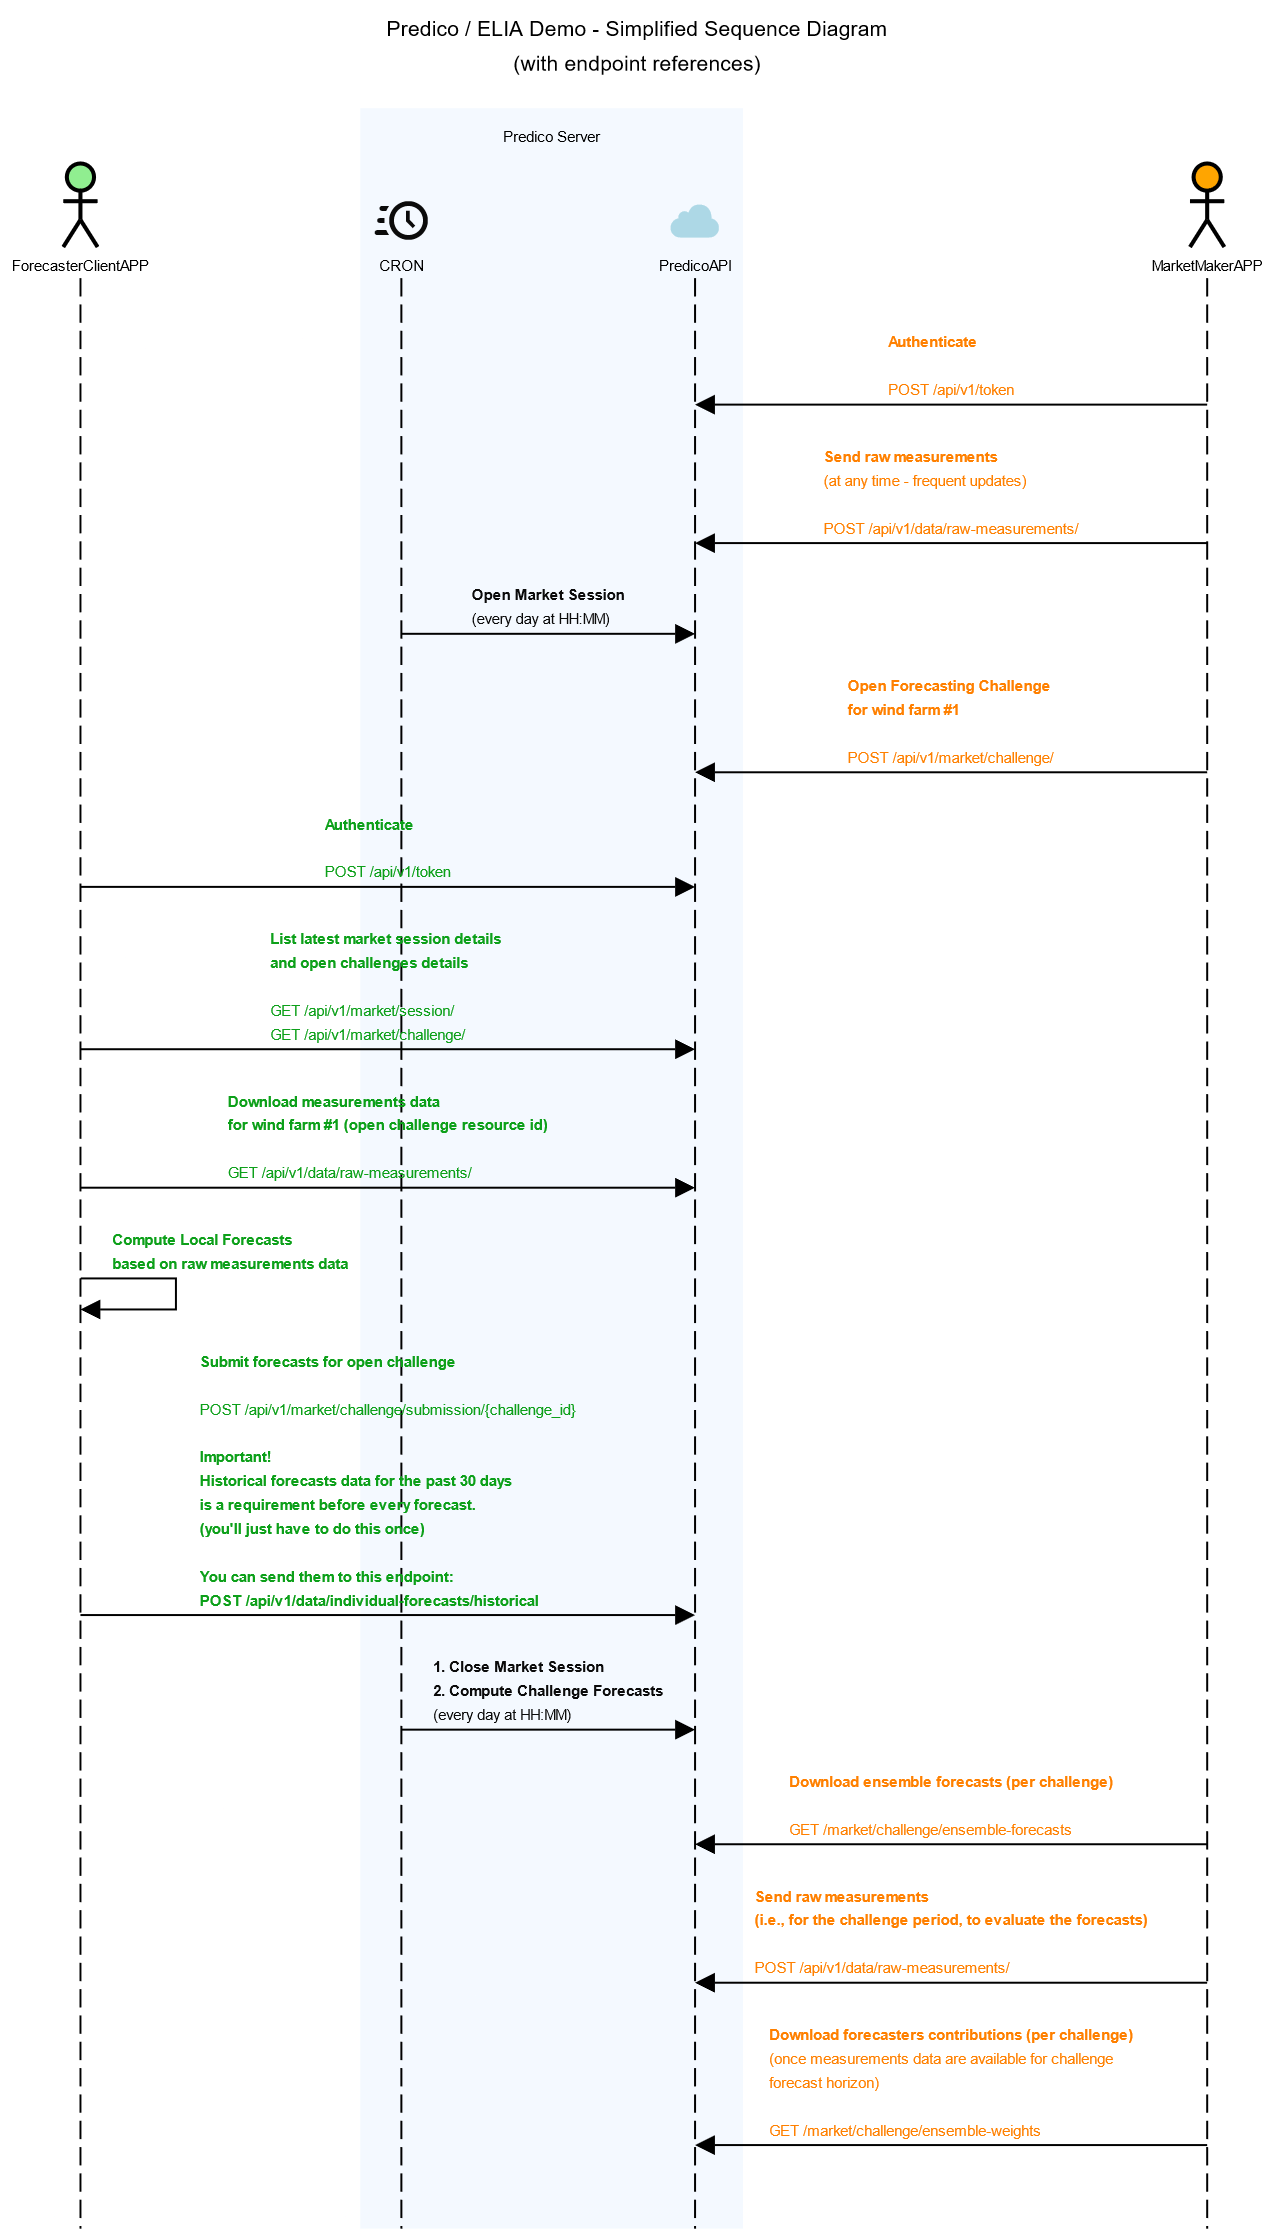
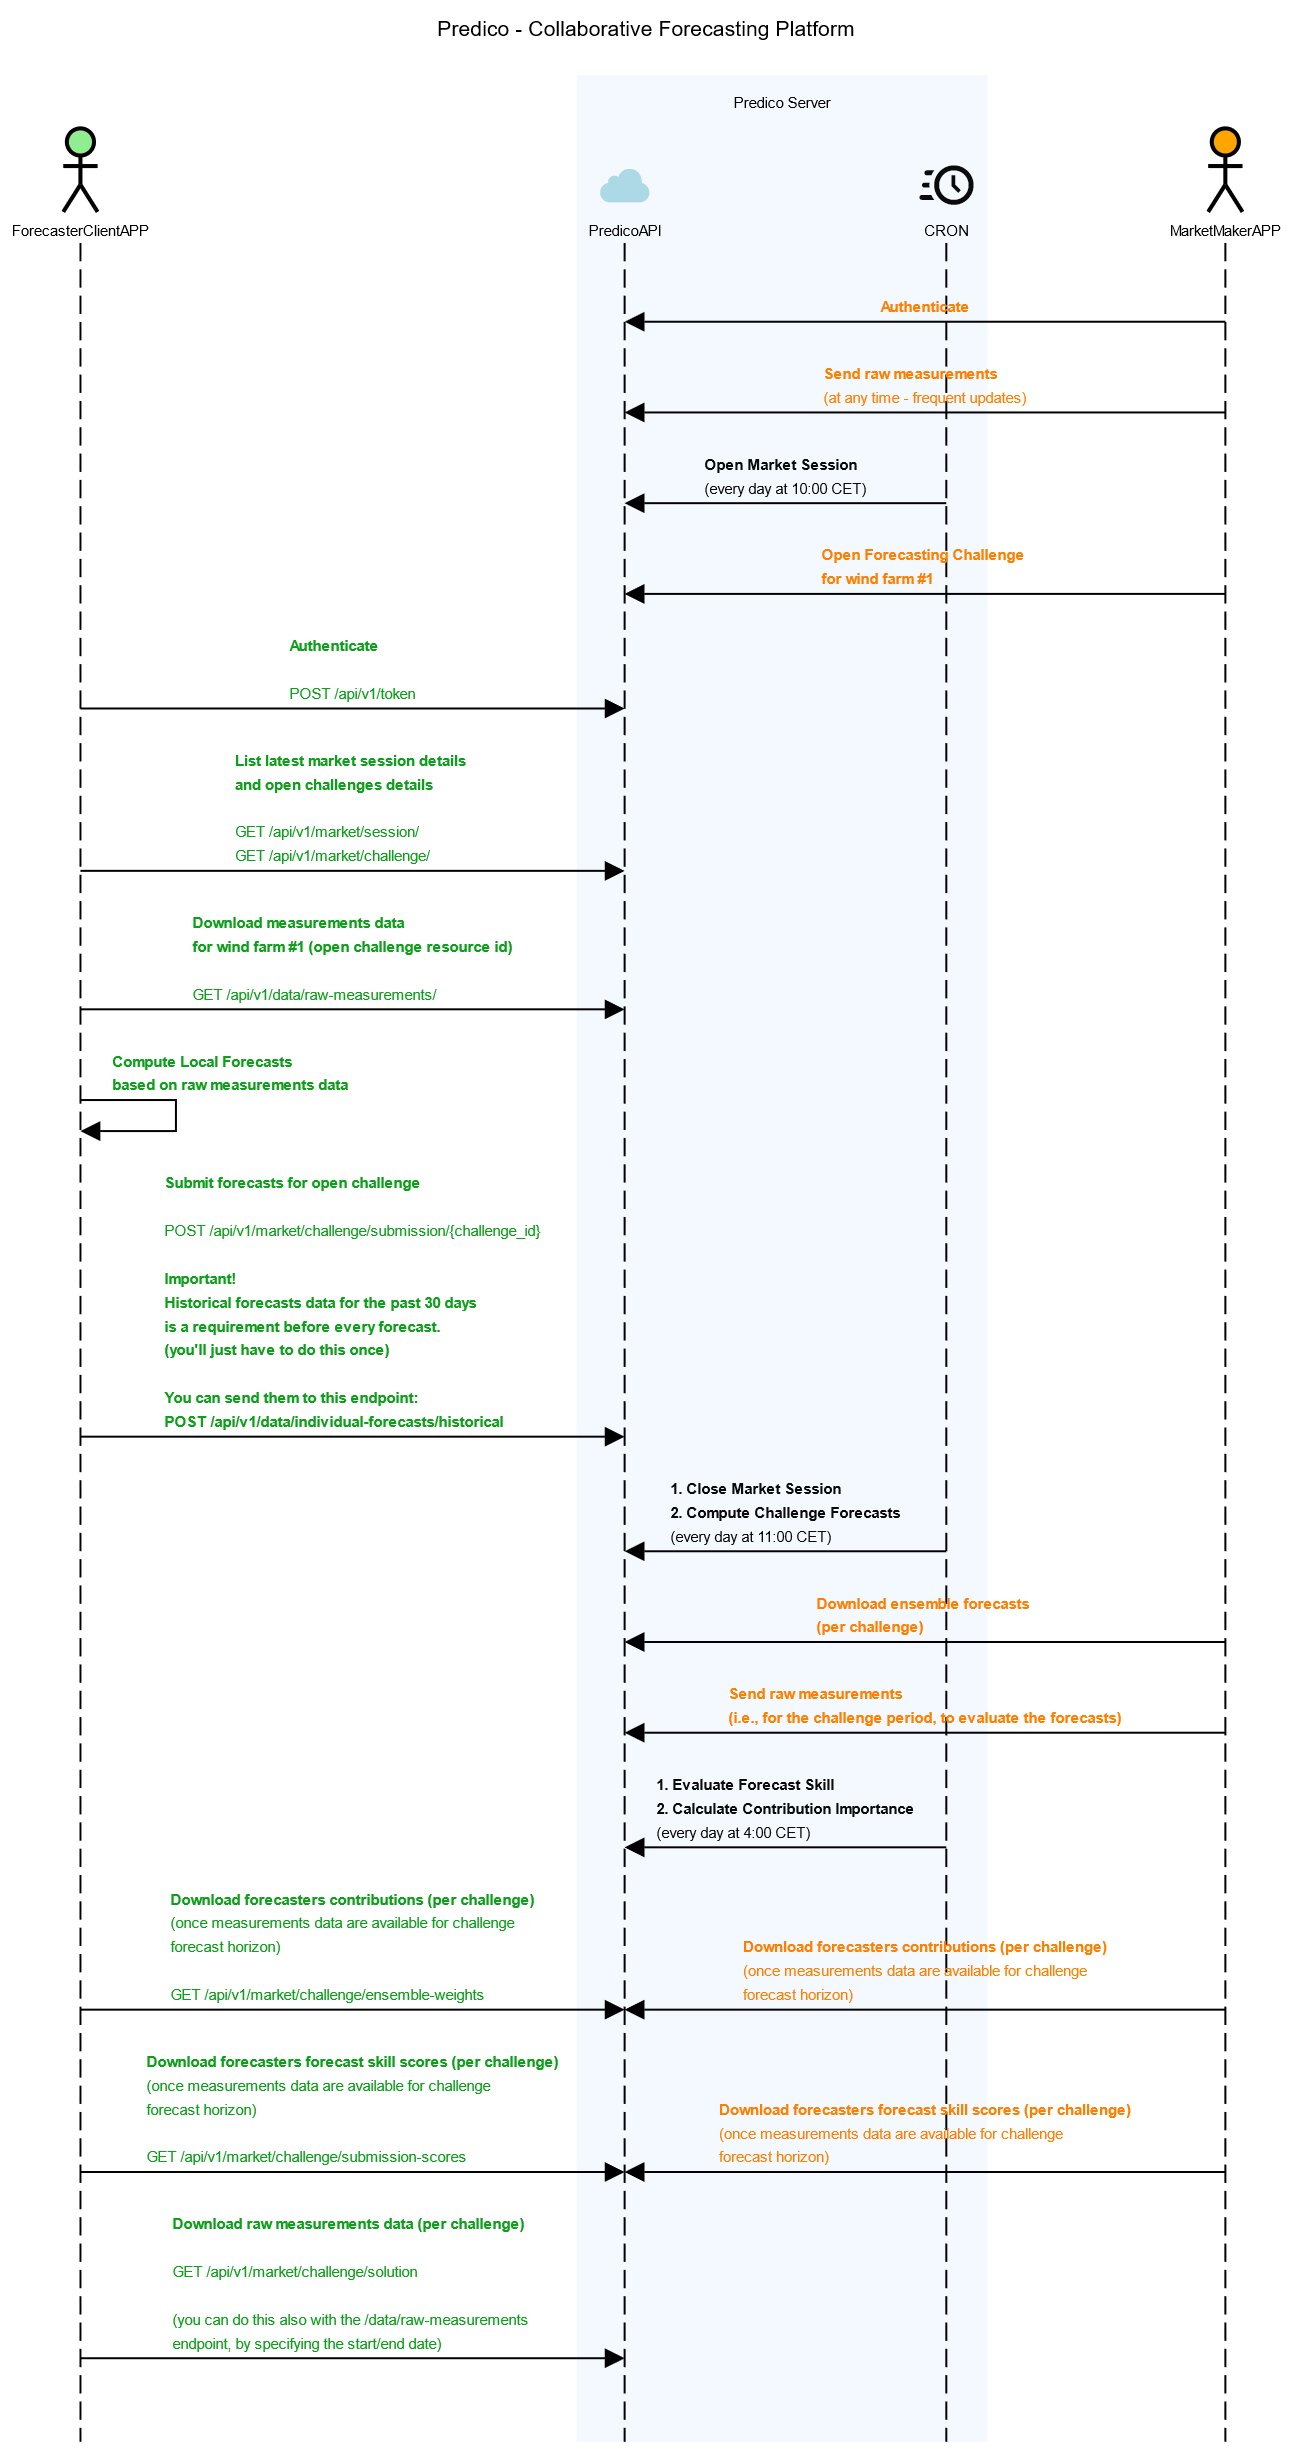
Minor tweaks. Added contacts section on docs.

diff --git a/nginx/docs/quick-guide/index.html b/nginx/docs/quick-guide/index.html
@@ -47,29 +47,41 @@
             </p>
             <ol>
                 <li><strong>Phase 1:</strong> A new market session is scheduled to open.</li>
-                <li><strong>Phase 2:</strong> Market makers post new challenges, such as submitting day-ahead forecasts for specific assets.</li>
-                <li><strong>Phase 3:</strong> Forecasters log into the Collabforecast Service, download raw data, build their models, and submit forecasts.</li>
+                <li><strong>Phase 2:</strong> Market Makers post new challenges, such as submitting day-ahead forecasts for specific assets (aka resources) in their portfolio.</li>
+                <li><strong>Phase 3:</strong> Forecasters log into Predico API, download raw measurements data, build their models, and submit forecasts.</li>
+                <li><strong>Phase 4:</strong> Forecasters log into Predico API, preview their skill scores and contribution importance to the final ensemble forecasts, to be delivered to the Market Maker.</li>
             </ol>
             <a href="predico-elia-interactions-sd.png" target="_blank">
                 <img src="predico-elia-interactions-sd.png" alt="Sequence Diagram">
             </a>
         </section>
 
-        <section id="downloads">
-            <h3>Downloads</h3>
+        <section id="resources">
+            <h3>Useful Resources</h3>
             <p>
                 To help you get started with the Predico platform, we've prepared resources that you can download:
             </p>
             <ul>
                 <li>
-                    Download the <a href="jpynb-client/forecaster_tutorial.ipynb" download>Jupyter Notebook</a> (how to use <a href="https://jupyter.org/" target="_blank">Jupyter</a>)
+                    Check our <a href="https://predico-elia.inesctec.pt/redoc/" target="_blank">API documentation</a> for detailed information on how to interact with the platform.
                 </li>
                 <li>
-                    Download the <a href="bruno-api-client/Predico-Collabforecast.zip" download>Bruno Collection</a> (how to use <a href="https://www.usebruno.com/" target="_blank">Bruno</a>)
+                    Download the <a href="jpynb-client/forecaster_tutorial.ipynb" download>Forecaster Jupyter Notebook</a> (see more on <a href="https://jupyter.org/" target="_blank">how to use Jupyter</a>).
+                </li>
+                <li>
+                    Download the <a href="bruno-api-client/Predico-Collabforecast.zip" download>Bruno Collection</a> (see more on <a href="https://www.usebruno.com/" target="_blank">how to use Bruno</a>).
                 </li>
             </ul>
             <p>
                 These resources include sample code and data to assist you in building models and submitting forecasts.
+            </p>
+        </section>
+
+        <section id="contact">
+            <h3>Contact Us</h3>
+            <p>
+                If you have any questions or need assistance, feel free to reach out to us:
+                Forecasters may contact Elia with questions or concerns at <a href="mailto:predico@elia.be">predico@elia.be</a>.
             </p>
         </section>
 
